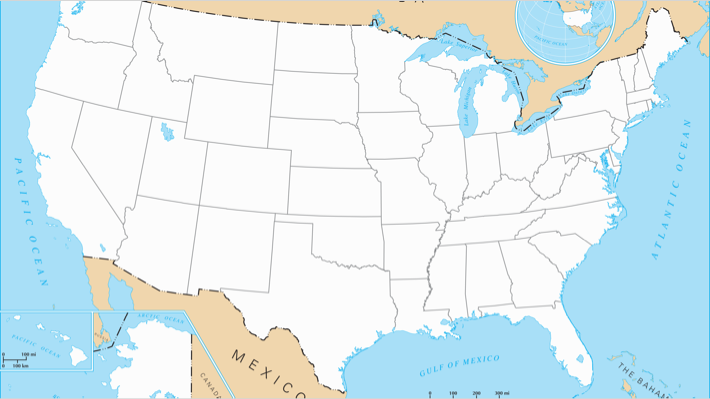
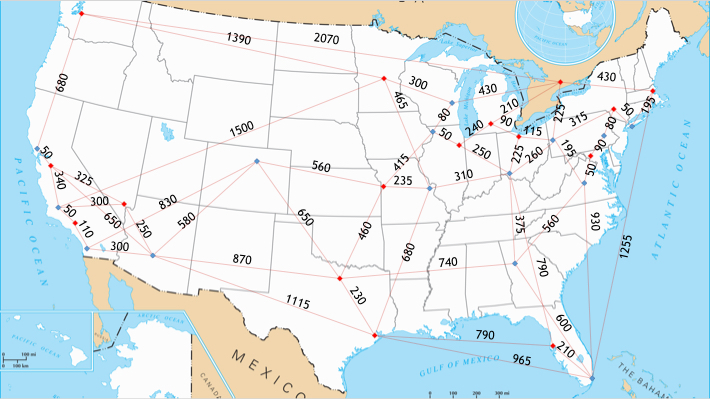
Adding map with id and coords, need database

diff --git a/src/widgets/graph.cpp b/src/widgets/graph.cpp
@@ -2,11 +2,16 @@
 #include "ui_graph.h"
 #include <QPainter>
 #include <cmath>
+#include <QLabel>
+#include <QHBoxLayout>
 
 graph::graph(QWidget *parent)
     : QWidget(parent), m_ui(new Ui::graph)
 {
     m_ui->setupUi(this);
+    m_coordinates = new std::map<int,QPoint>{
+        { 51, QPoint(79,11)},
+    };
 }
 
 graph::~graph()
@@ -19,18 +24,15 @@ void graph::paintEvent(QPaintEvent*)
     QPainter painter;
     painter.begin(this);
 
-//    painter.drawEllipse(QRect(48, 163, 5, 5));
-//    painter.drawEllipse(QRect(56, 205, 5, 5));
-//    painter.drawEllipse(QRect(73, 220, 5, 5));
-//    painter.drawEllipse(QRect(84, 246, 5, 5));
-//    painter.drawEllipse(QRect(121, 201, 5, 5));
-//    painter.drawEllipse(QRect(150, 253, 5, 5));
-//    painter.drawEllipse(QRect(79, 11, 5, 5));
-//    painter.drawEllipse(QRect(254, 159, 5, 5));
+    paintText(painter, (*m_coordinates)[0], QString::fromUtf8("Safeco Park"));
+    paintText(painter, QPoint(42,146), QString::fromUtf8("AT&T Park"));
+    paintText(painter, QPoint(48,163), QString::fromUtf8("Oakland–Alameda County Coliseum"));
+    paintText(painter, QPoint(48,205), QString::fromUtf8("Dodger Stadium"));
+    paintText(painter, QPoint(61,220), QString::fromUtf8("Angel Stadium of Anaheim"));
+    paintText(painter, QPoint(88,246), QString::fromUtf8("Petco Park"));
+    paintText(painter, QPoint(121,205), QString::fromUtf8("Vegas Stadium"));
+    paintText(painter, QPoint(156,254), QString::fromUtf8("Coors Field"));
 
-    paintStadiums(painter, QPoint(79,11), QString::fromUtf8("Safeco Park"));
-    paintStadiums(painter, QPoint(35,146), QString::fromUtf8("AT&T Park"));
-    paintEdge(painter, QPoint(79,11), QPoint(35,146), QString::fromUtf8("680 mi"));
     painter.end();
 }
 
@@ -74,14 +76,16 @@ void graph::paintText(QPainter& painter, const QPoint& coords, const QString& st
     myPen.setCapStyle(Qt::PenCapStyle::FlatCap);
     myPen.setJoinStyle(Qt::PenJoinStyle::MPenJoinStyle);
 
-
     QFont font=painter.font() ;
-    font.setPointSize (10);
-    font.setWeight(QFont::Light);
-    font.setFamily(QString::fromUtf8("Monospace"));
+    font.setPointSize (7);
+    font.setWeight(QFont::Thin);
+    font.setFamily(QString::fromUtf8("Trebuchet MS"));
 
     painter.setPen(myPen);
     painter.setFont(font);
-
-    painter.drawText(coords, strToPrint);
+    QPoint textPoint = coords - QPoint(42,0);
+    QRect rect(textPoint,QSize(54,41));
+    QTextOption textOption;
+    textOption.setWrapMode(QTextOption::WordWrap);
+    painter.drawText(rect,strToPrint, textOption);
 }

diff --git a/src/widgets/graph.hpp b/src/widgets/graph.hpp
@@ -1,7 +1,7 @@
 #pragma once
 
 #include <QWidget>
-
+#include <map>
 namespace Ui {
 class graph;
 }
@@ -23,6 +23,7 @@ void paintText(QPainter& painter, const QPoint& , const QString&);
 
 private:
 Ui::graph *m_ui;
+std::map<int,QPoint>* m_coordinates;
 };
 
 
